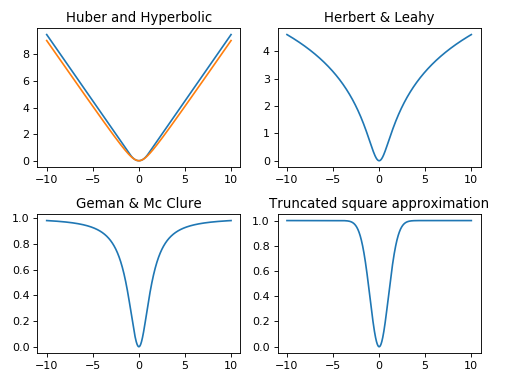
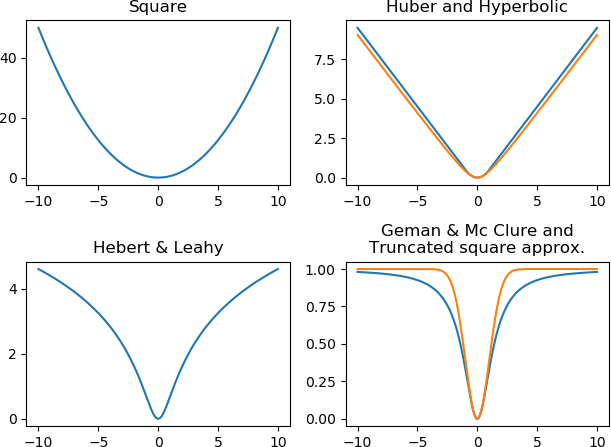
Fix typo

diff --git a/qmm/qmm.py b/qmm/qmm.py
@@ -719,8 +719,8 @@ with δ = {self.delta}
 """
 
 
-class HerbertLeahy(Potential):
-    r"""The non-convex coercive function Herbert & Leahy
+class HebertLeahy(Potential):
+    r"""The non-convex coercive function Hebert & Leahy
 
     .. math::
 
@@ -729,7 +729,7 @@ class HerbertLeahy(Potential):
     """
 
     def __init__(self, delta: float):
-        """The Herbert & Leahy function."""
+        """The Hebert & Leahy function."""
         super().__init__(inf=2 / delta ** 2, convex=False, coercive=True)
         self.delta = delta
 

diff --git a/docs/background.rst b/docs/background.rst
@@ -28,30 +28,36 @@ approximation are not coercive.
 .. image:: ./potentials.png
     :align: center
 
+
 ..
-   .. plot::
+    .. plot::
+       :align: center
 
-      import numpy as np
-      import matplotlib.pyplot as plt
+       import numpy as np
+       import matplotlib.pyplot as plt
 
-      import qmm
+       from qmm import qmm
 
-      u = np.linspace(-10, 10, 1000)
-      plt.subplot(2, 2, 1)
-      plt.plot(u, qmm.Huber(1)(u))
-      plt.plot(u, qmm.Hyperbolic(1)(u))
-      plt.title('Huber and Hyperbolic')
-      plt.subplot(2, 2, 2)
-      plt.plot(u, qmm.HerbertLeahy(1)(u))
-      plt.title('Herbert & Leahy')
-      plt.subplot(2, 2, 3)
-      plt.plot(u, qmm.GemanMcClure(1)(u))
-      plt.title('Geman & Mc Clure')
-      plt.subplot(2, 2, 4)
-      plt.plot(u, qmm.TruncSquareApprox(1)(u))
-      plt.title('Truncated square approximation')
+       u = np.linspace(-10, 10, 1000)
 
-      plt.tight_layout()
+       plt.figure(1)
+       plt.clf()
+       plt.subplot(2, 2, 1)
+       plt.plot(u, qmm.Square()(u))
+       plt.title('Square')
+       plt.subplot(2, 2, 2)
+       plt.plot(u, qmm.Huber(1)(u))
+       plt.plot(u, qmm.Hyperbolic(1)(u))
+       plt.title('Huber and Hyperbolic')
+       plt.subplot(2, 2, 3)
+       plt.plot(u, qmm.HebertLeahy(1)(u))
+       plt.title('Hebert & Leahy')
+       plt.subplot(2, 2, 4)
+       plt.plot(u, qmm.GemanMcClure(1)(u))
+       plt.plot(u, qmm.TruncSquareApprox(1)(u))
+       plt.title('Geman & Mc Clure and\nTruncated square approx.')
+
+       plt.tight_layout()
 
 
 Example

diff --git a/docs/qmm.rst b/docs/qmm.rst
@@ -114,7 +114,7 @@ At that time, the provided concrete potential are :class:`Square`,
 .. autoclass:: Hyperbolic
    :members:
 
-.. autoclass:: HerbertLeahy
+.. autoclass:: HebertLeahy
    :members:
 
 .. autoclass:: GemanMcClure
